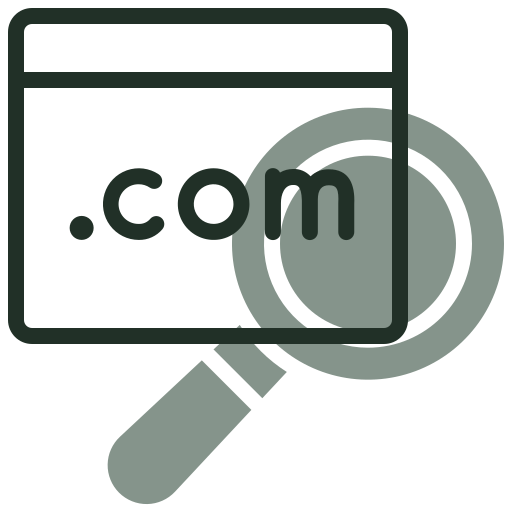
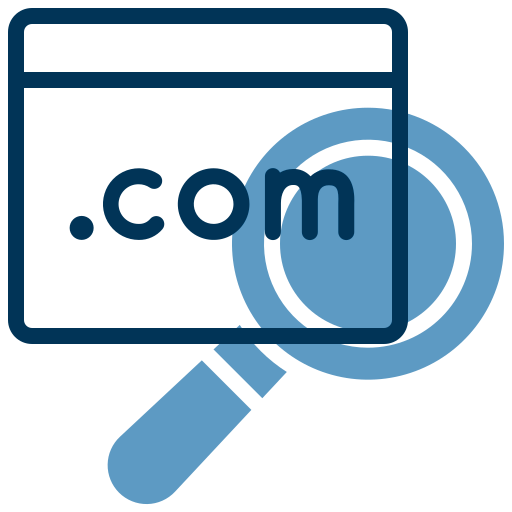
Style changes, interactivity, modal box

diff --git a/css/index.css b/css/index.css
@@ -16,8 +16,8 @@ header {
 .profile-img {
     height: 150px;
     width: 150px;
-    background-color: var(--dark-gray);
-    border-bottom: 12px solid var(--green);
+    background-color: var(--dark-blue);
+    border: 6px inset var(--blue);
     border-radius: 75px;
     overflow: hidden;
 }
@@ -35,11 +35,11 @@ header {
 }
 
 /* --- Contact Button --- */
-button {
+#contact-btn {
     outline: none;
     margin: 0 1rem 0 0;
     padding: 0.15rem 0.9rem;
-    background-color: var(--dark-green);
+    background-color: var(--blue);
     border: none;
     border-radius: 4px;
     font-family: "Quicksand", sans-serif;
@@ -50,9 +50,9 @@ button {
     transition: all 0.15s;
 }
 
-button:hover {
+#contact-btn:hover {
     cursor: pointer;
-    background-color: var(--light-green);
+    background-color: var(--light-blue);
     transform: scale(1.1);
 }
 
@@ -79,8 +79,8 @@ main {
     max-height: 300px;
     justify-content: space-between;
     align-items: center;
-    border-top: 1px solid var(--green);
-    border-bottom: 1px solid var(--green);
+    border-top: 1px solid var(--blue);
+    border-bottom: 1px solid var(--blue);
     
 }
 
@@ -126,6 +126,125 @@ article:hover p {
 .empty {
     width: 100%;
     height: 100px;
+}
+
+/* CONTACT MODAL BOX
+-------------------------------------------------------------*/
+#mbox-contact {
+    position: fixed;
+    display: none;
+    top: 0;
+    left: 0;
+    width: 100%;
+    height: 100%;
+    background-color: rgba(0, 0, 0, 0.4);
+}
+
+.content {
+    width: max-content;
+    margin: 10% auto 0 auto;
+    padding: 2rem 1.5rem;
+    background-color: white;
+    border-radius: 8px;
+    box-shadow: 0 0 25px 2px rgba(0, 0, 0, 0.4);
+    animation-name: show;
+    animation-duration: 0.4s;
+}
+
+@keyframes show {
+    from {opacity: 0}
+    to {opacity: 1}
+}
+
+.social-contacts {
+    display: flex;
+    justify-content: center;
+}
+
+.email {
+    margin-bottom: 1.4rem;
+}
+
+.email h3 {
+    margin-bottom: 0.4rem;
+}
+
+.social-contacts .box {
+    min-width: 33%;
+    margin: 0.5rem 0.3rem 0 0.3rem;
+}
+
+.social-contacts h4 {
+    font-weight: 400;
+    font-size: 1rem;
+}
+
+.social-contacts a {
+    color: var(--blue);
+}
+
+.social-contacts a:hover {
+    color: var(--light-blue);
+}
+
+#fb, #tw, #ig {
+    display: block;
+    width: 60px;
+    height: 60px;
+    margin: 0.6rem auto 0.3rem auto;
+}
+
+#fb-img, #tw-img, #ig-img {
+    width: 60px;
+    height: 60px;
+    background-size: cover;
+    transition: all 0.2s;
+}
+
+#fb-img {
+    background-image: url("../images/facebook-b.png");
+}
+
+#tw-img {
+    background-image: url("../images/twitter-b.png");
+}
+
+#ig-img {
+    background-image: url("../images/instagram-b.png");
+}
+
+#fb-img:hover {
+    cursor: pointer;
+    background-image: url("../images/facebook-hover.png");
+}
+
+#tw-img:hover {
+    cursor: pointer;
+    background-image: url("../images/twitter-hover.png");
+}
+
+#ig-img:hover {
+    cursor: pointer;
+    background-image: url("../images/instagram-hover.png");
+}
+
+#close {
+    outline: none;
+    margin-top: 1.5rem;
+    padding: 0.2rem 0.6rem;
+    background-color: var(--blue);
+    border: none;
+    border-radius: 3px;
+    font-family: "Quicksand", sans-serif;
+    font-weight: 400;
+    font-size: 1.2rem;
+    color: white;
+    transition: all 0.2s;
+}
+
+#close:hover {
+    cursor: pointer;
+    background-color: var(--light-blue);
 }
 
 /* FOOTER

diff --git a/index.html b/index.html
@@ -8,6 +8,7 @@
     <link href="css/index.css" rel="stylesheet">
     <link href="css/defaults.css" rel="stylesheet">
     <title>Braian Rosas</title>
+    <script src="scripts/modalbox.js" defer></script>
 </head>
 <body>
     <header>
@@ -18,7 +19,7 @@
                 <h4>Desarrollador Web | Full Stack | Freelancer</h4>
             </div>
         </div>
-        <a href="/"><button>CONTACTAR</button></a>
+        <button id="contact-btn">CONTACTAR</button>
     </header>
     <main>
         <section class="presentation">
@@ -49,12 +50,36 @@
             <article class="hosting">
                 <img src="images/hosting.png" alt="Logotipo de alojamiento web">
                 <h3>Hosting</h3>
-                <p>Se elegirá el servivio de hosting adecuado que cumpla con las características requeridas de su página y sus servicios, no necesitará preocuparse por configuraciónes, puesto que se le entregará a usted el sitio 100% funcional ya con el hosting implementado.</p>
+                <p>Se elegirá el servicio de hosting adecuado que cumpla con las características requeridas de su página y sus servicios, no necesitará preocuparse por configuraciónes, puesto que se le entregará a usted el sitio 100% funcional ya con el hosting implementado.</p>
             </article>
         </section>
         <section class="empty">
             <!-- Waiting For Content -->
         </section>
+        <div id="mbox-contact">
+            <div class="content">
+                <div class="email">
+                    <h3>Correo electrónico</h3>
+                    <h4>braianrosas.dev@outlook.com</h4>
+                </div>
+                <h3>Redes sociales</h3>
+                <div class="social-contacts">
+                    <div class="box">
+                        <a href="#" id="fb"><div id="fb-img"></div></a>
+                        <a href="#"><h4>@braian.rosas.dev</h4></a>
+                    </div>
+                    <div class="box">
+                        <a href="#" id="fb"><div id="tw-img"></div></a>
+                        <a href="#"><h4>@braian.rosas.dev</h4></a>
+                    </div>
+                    <div class="box">
+                        <a href="#" id="fb"><div id="ig-img"></div></a>
+                        <a href="#"><h4>@braian.rosas</h4></a>
+                    </div>
+                </div>
+                <button id="close">LISTO</button>
+            </div>
+        </div>
     </main>
     <footer>
         <div class="label">

diff --git a/css/defaults.css b/css/defaults.css
@@ -24,20 +24,20 @@ h1 {
     font-size: 2rem;
     font-weight: 700;
     line-height: 1.9rem;
-    color: var(--green);
+    color: var(--blue);
 }
 
 h2 {
     font-size: 1.4rem;
     font-weight: 700;
     line-height: 1rem;
-    color: var(--green);
+    color: var(--blue);
 }
 
 h3 {
     font-size: 1.4rem;
     font-weight: 700;
-    color: var(--green);
+    color: var(--blue);
 }
 
 h4 {
@@ -45,11 +45,15 @@ h4 {
     font-weight: 300;
 }
 
+a {
+    text-decoration: none;
+}
+
 :root {
-    --extra-light-green: #27c84a;
-    --light-green: #0f6826;
-    --green: #0c3c18;
-    --dark-green: #0a2210;
+    --extra-light-blue: #bbe1fa;
+    --light-blue: #3282b8;
+    --blue: #0f4c75;
+    --dark-blue: #1b262c;
     --dark-gray: #0f0f0f;
 }
 

diff --git a/scripts/modalbox.js b/scripts/modalbox.js
@@ -1,0 +1,19 @@
+const contactBtn = document.getElementById("contact-btn");
+
+const modalBox = document.getElementById("mbox-contact");
+
+const closeBtn = document.getElementById("close");
+
+contactBtn.onclick = () => {
+    modalBox.style.display = "block";
+}
+
+closeBtn.onclick = () => {
+    modalBox.style.display = "none";
+}
+
+window.onclick = (event) => {
+    if (event.target === modalBox) {
+        modalBox.style.display = "none";
+    }
+}
